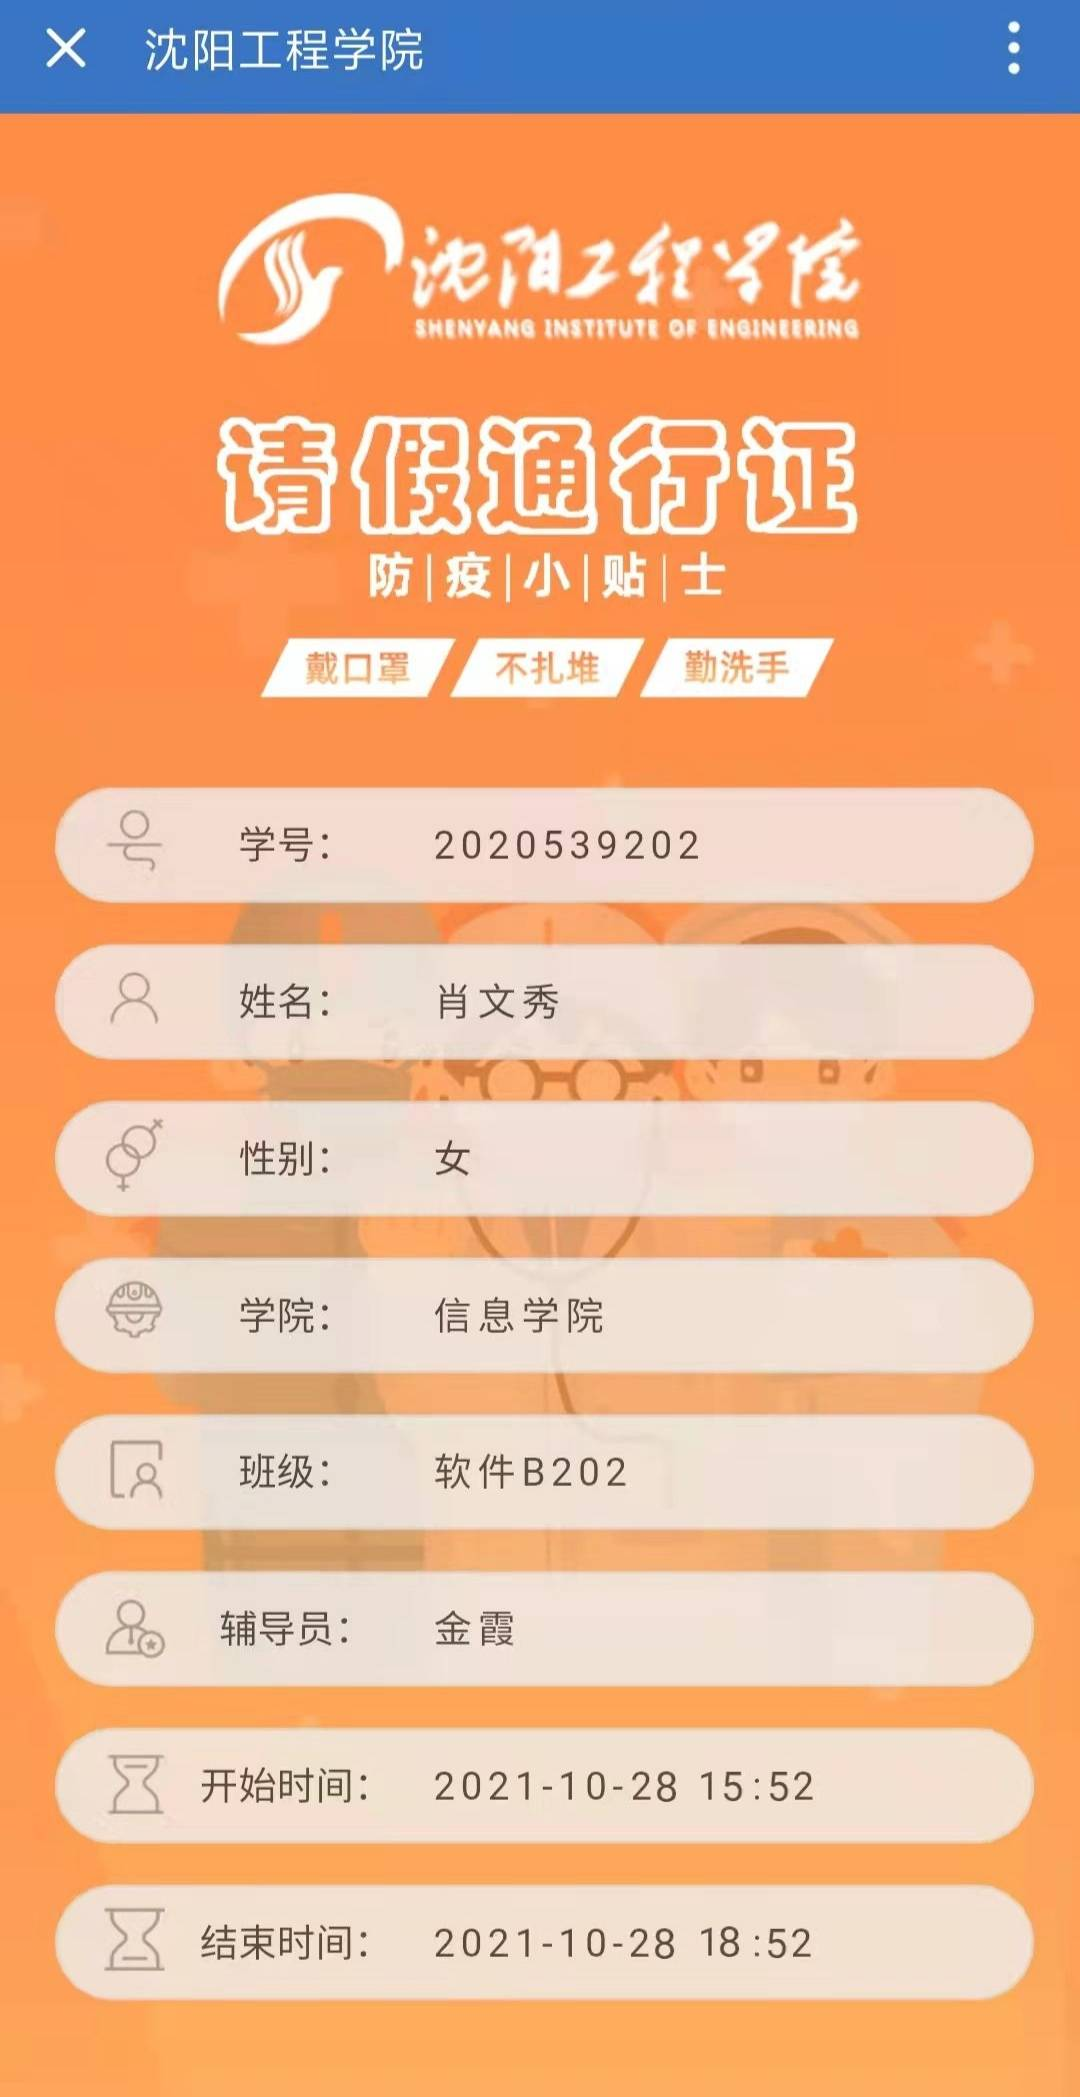
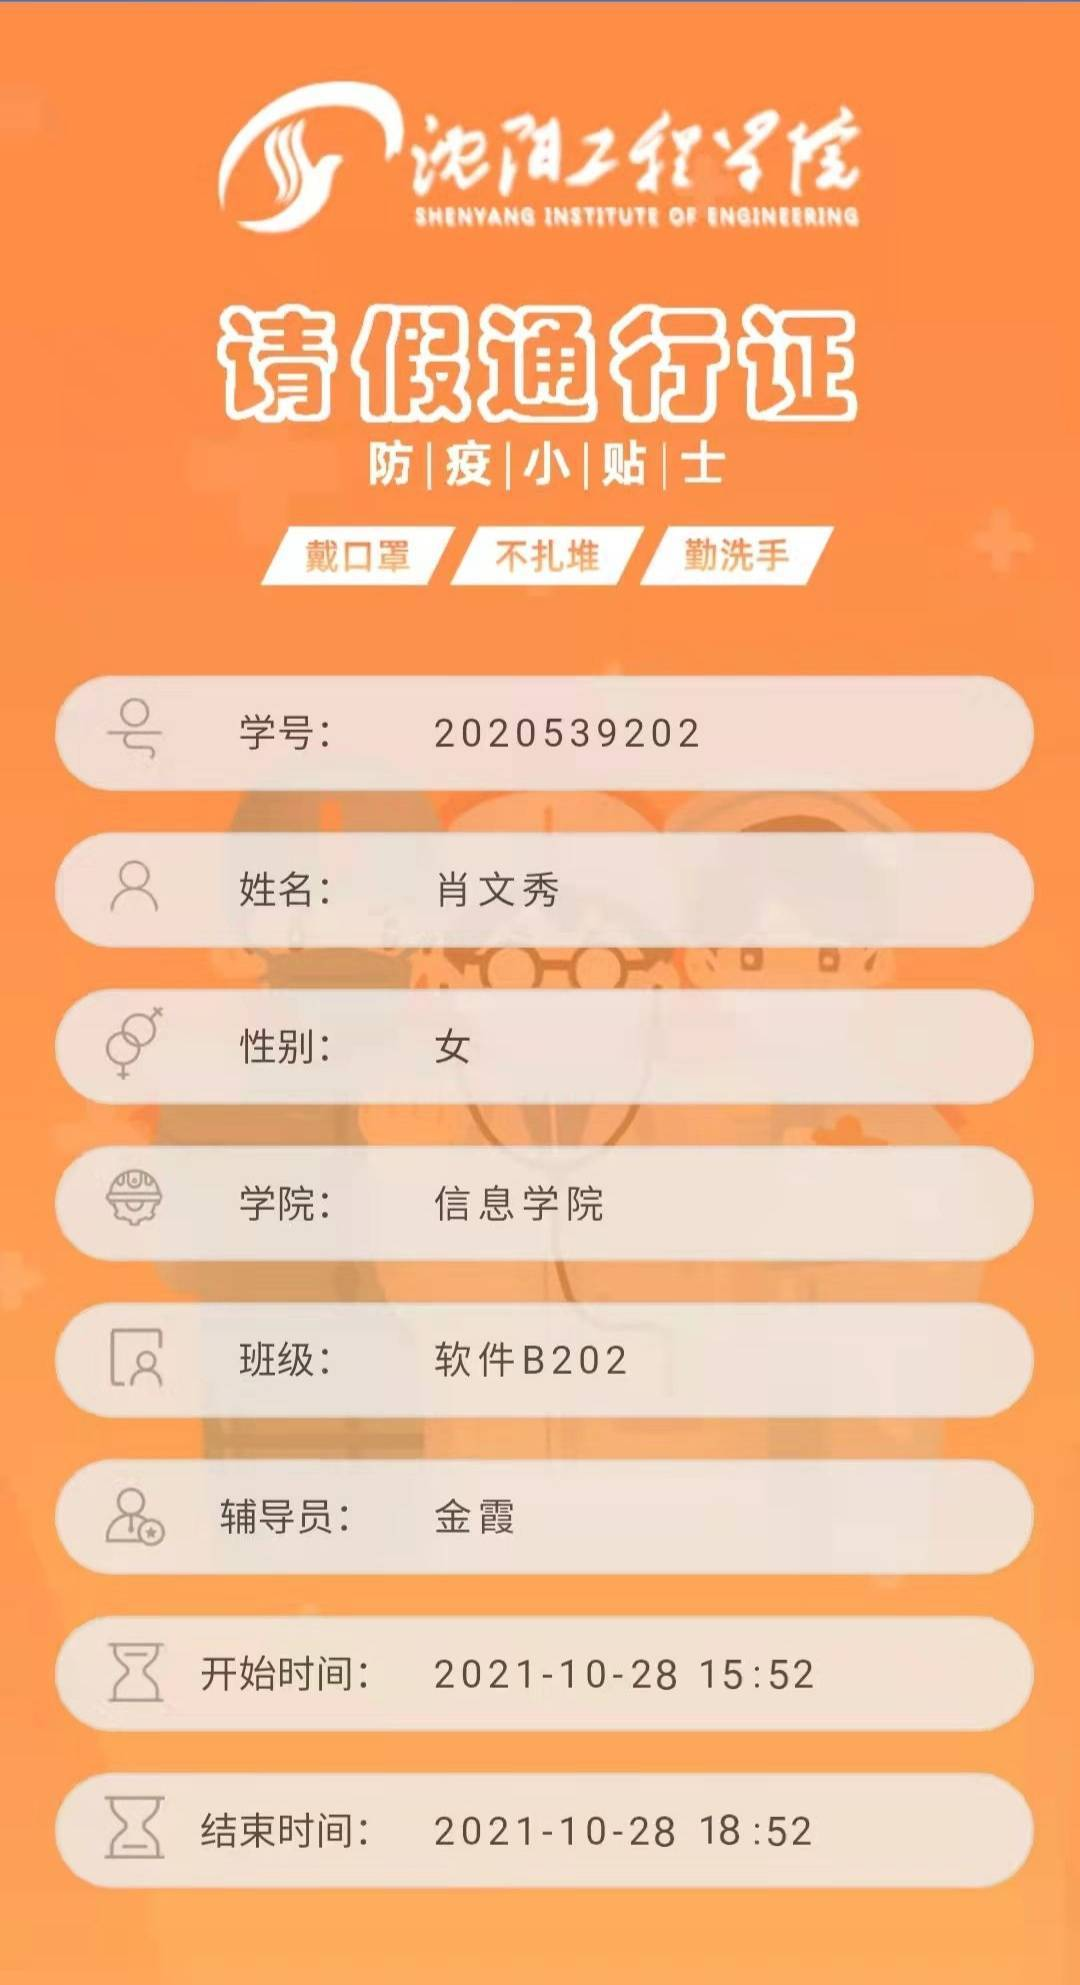
Add files via upload

diff --git a/index.html b/index.html
@@ -2,7 +2,7 @@
 <html lang="en">
 <head>
 	<meta charset="UTF-8">
-	<title></title>
+	<title>申请人确认-学生请假申请</title>
 </head>
 <body>
 	<div class="bg">
@@ -13,13 +13,14 @@
 <style type="text/css">
 .bg{
 	width: 1080px;
-	height: 4850px;
+	margin-top: -8px;
+	height: 4692px;
 	display: block;
 	position: absolute;
 	background: url(index.jpg) no-repeat center;
 }
 .bt{
-	margin-top: 4473px;
+	margin-top: 4323px;
 	margin-left: 528px;
 	height: 45px;
 	width: 332px;

diff --git a/index2.html b/index2.html
@@ -12,7 +12,8 @@
 <style type="text/css">
 .bg{
 	width: 1080px;
-	height: 2096px;
+	margin-top: -33px;
+	height: 2031px;
 	display: block;
 	position: absolute;
 	background: url(2.jpg) no-repeat center;
